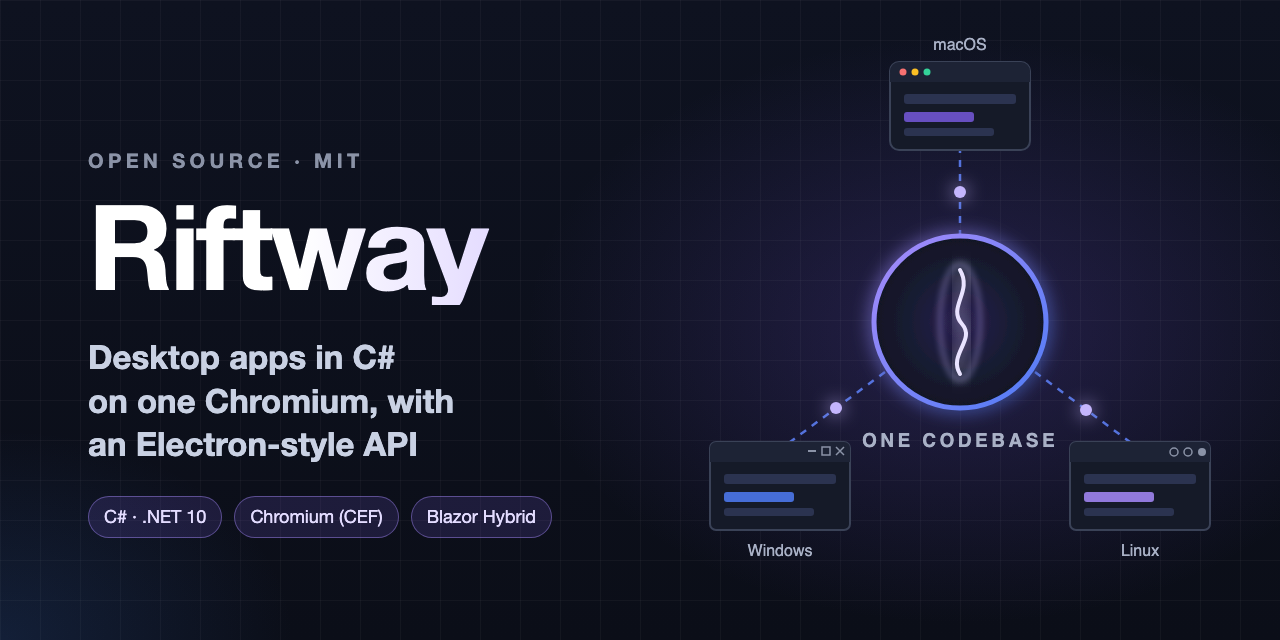
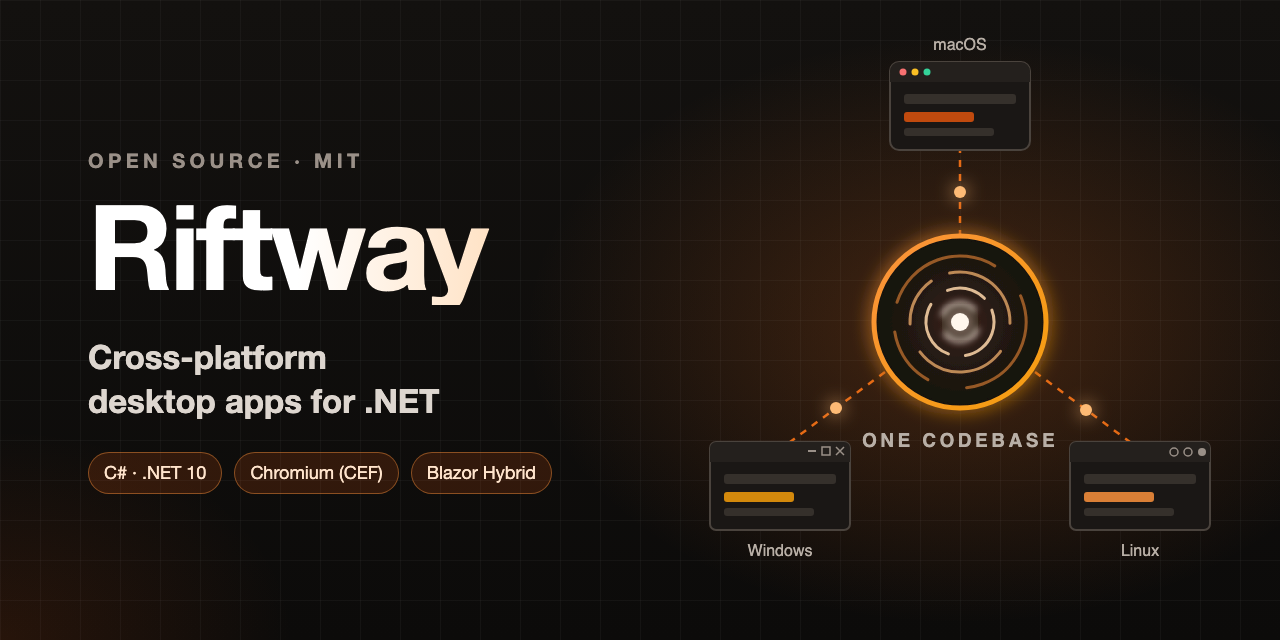
Social card: orange palette, vortex portal, tagline 'Cross-platform desktop apps for .NET'

diff --git a/README.md b/README.md
@@ -1,6 +1,6 @@
 <div align="center">
 
-![Riftway: desktop apps in C# on one Chromium, with an Electron-style API](docs/assets/social-preview.png)
+![Riftway: cross-platform desktop apps for .NET](docs/assets/social-preview.png)
 
 [![NuGet](https://img.shields.io/nuget/vpre/Riftway?logo=nuget&label=NuGet&color=004880)](https://www.nuget.org/packages/Riftway)
 [![Publish](https://github.com/riddlemd/Riftway/actions/workflows/publish.yml/badge.svg)](https://github.com/riddlemd/Riftway/actions/workflows/publish.yml)
